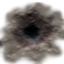
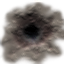
Weight redesign: perfect W20 strength at weight/200, weight-based offset spread, new weight words; grenade weight 130; projectiles are never refunded

Changed region(s): [[0.0, 0.4375, 0.0938, 0.8438]]

diff --git a/src/main.js b/src/main.js
@@ -43,28 +43,25 @@ const INITIAL_SCROLL_Y = -(GAME_HEIGHT - 20);
 // and the roofline - never in the sky, never in the red-marked restricted area (+10px buffer
 // above it) from the user's reference image. Restricted zone's top edge was image-y=486;
 // converted via IMG_GROUND_Y - imageY, plus the 10px buffer, that's a minimum stick height of
-// 184. The roofline (IMG_GROUND_Y - IMG_ROOF_Y = 643) is the maximum. MIN/MAX_POWER_SPEED are
-// calibrated so a 0%/100% power throw's apex lands exactly on those two bounds -
-// vy0 = sqrt(2 * GRAVITY * height).
+// 184. The roofline (IMG_GROUND_Y - IMG_ROOF_Y = 643) is the maximum. The strength curve below is built on
+// these bounds (vy0 = sqrt(2 * GRAVITY * height)).
 const MIN_STICK_HEIGHT = IMG_GROUND_Y - 486 + 10; // 184
 // Apex of a full-strength throw of the reference projectile (weight 100, the snowball) with no buffs:
 // the middle of the window row above the goal windows (image y 173-216 -> height 660 - 194.5).
 // Buffs/lighter projectiles can still push a throw higher - past the roof edge it falls back behind
 // the building, past the top of the texture it escapes (see updateFlight).
 const MAX_APEX_HEIGHT = IMG_GROUND_Y - (173 + 216) / 2; // 465.5
-// A projectile of this weight flies exactly as the constants above say; heavier flies lower, lighter higher
-// (see launchBall). The number is per projectile in economy.json ("weight") and never shown to the player.
+// The snowball's weight - the reference all other weights are measured against (economy.json "weight", never
+// shown to the player as a number). See the "weight" section below for what a weight does.
 const REFERENCE_WEIGHT = 100;
 // Where the wall ends and the sky starts: background.png rows 0-14 are sky, row 15 is the dark roof
 // edge. Nothing can stick above this line - a ball whose apex is higher falls back down and sinks
 // behind the roofline instead (see updateFlight), and marks are clipped at it (see addMark).
 const ROOF_EDGE_HEIGHT = IMG_GROUND_Y - 15; // 645
-const MIN_POWER_SPEED = Math.sqrt(2 * GRAVITY * MIN_STICK_HEIGHT); // ~575.6
-const MAX_POWER_SPEED = Math.sqrt(2 * GRAVITY * MAX_APEX_HEIGHT); // ~1200
 
 // Marker speed (full back-and-forth sweeps per second) - the numbers live in economy.json under "aim".
 // ONE fixed speed for both sliders - nothing (streak, buffs, projectiles) changes it.
-const AIM_DEFAULTS = { markerHz: 0.85 };
+const AIM_DEFAULTS = { markerHz: 0.85, offsetZoneAtWeight100: 0.5 };
 
 const MARK_LIFETIME_MS = 10000; // marks start fading this long after they're placed
 const MARK_FADE_MS = 1500; // fade-out duration, then the mark is destroyed
@@ -106,7 +103,58 @@ const AIM_COLOR_ANGLE_CSS = "#6fb1ff";
 const AIM_COLOR_POWER_CSS = "#ff6f6f";
 const EVENT_COLOR_FACE = 0xffd52e; // the face-window event's dot on the aim bars
 const EVENT_DOT_RADIUS = 6; // px, drawn on the aim bars (smaller than the hit range, so a marker on the dot always hits)
-const AIM_TICK_STEP = 0.1; // graduation lines on both aim bars every 10% (offset: of the full swing, from the center out)
+
+// ---------------------------------------------------------------------------------------------------------
+// WEIGHT. One number per projectile (economy.json "projectiles.<id>.weight"; snowball = 100 is the reference).
+//
+// STRENGTH slider: `power` is where the marker is (0 = start .. 1 = tip). The apex the throw reaches is
+// apexForEffectivePower(power + weightShift(weight)), and the curve passes through the apex bounds
+// (0 -> MIN_STICK_HEIGHT, 1 -> MAX_APEX_HEIGHT) and through W20's MIDDLE at 0.5. The shift moves where the
+// middle of W20 sits on the slider: 0.5 for weight 100, the tip (1.0) for weight 200, the very start (0) for
+// weight 0 - i.e. the perfect W20 throw is at power = weight / 200. Heavier = a higher power is needed.
+//
+// OFFSET slider: the sideways drift is swing x MAX_SWING_SPEED x flight time, and a swing of +-W20_SWING_GUARANTEE
+// is the most that is still guaranteed to land inside W20's width. The offset bar spans +-offsetRange swing, so
+// the share of the bar that hits W20 is W20_SWING_GUARANTEE / offsetRange = the "zone": 0 for weight 0 (only the exact
+// middle), 1 for weight 200 (anywhere on the slider), and `offsetZoneAtWeight100` (economy.json aim, default 0.5)
+// for the snowball, straight lines in between.
+const APEX_MID = (W20.heightFrom + W20.heightTo) / 2; // the middle of W20 (365.5)
+const CURVE_C = 2 * (MAX_APEX_HEIGHT - MIN_STICK_HEIGHT) - 4 * (APEX_MID - MIN_STICK_HEIGHT);
+const CURVE_B = MAX_APEX_HEIGHT - MIN_STICK_HEIGHT - CURVE_C;
+const CURVE_SLOPE_TOP = CURVE_B + 2 * CURVE_C; // beyond effective power 1 the curve continues in a straight line
+
+function weightShift(weight) {
+  return (REFERENCE_WEIGHT - weight) / (2 * REFERENCE_WEIGHT); // (100 - w) / 200
+}
+
+// Effective power (0..1 = the snowball's slider) -> apex height. Never below the lowest allowed stick height.
+function apexForEffectivePower(pe) {
+  if (pe <= 0) return MIN_STICK_HEIGHT;
+  if (pe <= 1) return MIN_STICK_HEIGHT + CURVE_B * pe + CURVE_C * pe * pe;
+  return MAX_APEX_HEIGHT + CURVE_SLOPE_TOP * (pe - 1);
+}
+
+// The inverse (can return values below 0 for apexes under the minimum; those are unreachable).
+function effectivePowerForApex(apex) {
+  if (apex >= MAX_APEX_HEIGHT) return 1 + (apex - MAX_APEX_HEIGHT) / CURVE_SLOPE_TOP;
+  const d = apex - MIN_STICK_HEIGHT;
+  return (-CURVE_B + Math.sqrt(CURVE_B * CURVE_B + 4 * CURVE_C * d)) / (2 * CURVE_C);
+}
+
+// The share of the offset bar that is a guaranteed W20 hit (sideways) for a projectile of this weight.
+function offsetZone(weight, zoneAt100) {
+  const w = Math.min(Math.max(weight, 0), 2 * REFERENCE_WEIGHT);
+  return w <= REFERENCE_WEIGHT
+    ? (zoneAt100 * w) / REFERENCE_WEIGHT
+    : zoneAt100 + ((1 - zoneAt100) * (w - REFERENCE_WEIGHT)) / REFERENCE_WEIGHT;
+}
+
+// How far (in swing) the offset marker can drift from the middle - i.e. the bar spans +-this.
+function offsetRangeForWeight(weight, zoneAt100) {
+  return Math.min(10, W20_SWING_GUARANTEE / Math.max(0.015, offsetZone(weight, zoneAt100)));
+}
+
+const AIM_TICK_STEP = 0.1; // graduation lines on the STRENGTH bar every 10% of its power span
 
 const FACE_IMG_X = W20.xFrom - 1; // world x of the texture's left edge
 const FACE_IMG_TOP_HEIGHT = W20.heightTo + 1; // heightClimbed of the texture's top edge
@@ -267,7 +315,6 @@ class MainScene extends Phaser.Scene {
 
     this.bounce = null; // a projectile bouncing off the wall after impact (see startBounce)
     this.pendingProjectile = null; // equipped mid-flight, applied when the throw concludes
-    this.aimConsumed = null; // the projectile taken from the inventory by the current tap (see consumeProjectile)
     this.applyProjectile(Economy.getEquipped("projectile"));
     this.takeAimSnapshot();
     this.updateStreakHud();
@@ -312,14 +359,20 @@ class MainScene extends Phaser.Scene {
   // next tap, so a buff that runs out or is bought mid-aim, mid-flight or on the result screen can never
   // change the sliders (or the payout) of the throw in progress. The bars, their graduations and the event
   // dots are all drawn from this snapshot.
-  //  angleRange / powerRange: how much of the full swing / power span the slider covers, edge to edge
-  //    (1 = all of it; smaller = more precise - the graduations spread out like a magnified ruler)
+  //  angleRange: how far (in swing) the offset marker can drift, edge to edge of the bar - from the weight (see
+  //    "WEIGHT" above), narrowed by a precision buff; smaller = more precise, the graduations spread out.
+  //  powerRange: how much of the power span the strength slider covers (1 = all of it; strength-control buff).
   takeAimSnapshot() {
     const b = Buffs.modifiers();
     const cfg = { ...AIM_DEFAULTS, ...(this.eco.aim || {}) };
+    // The offset spread comes from the projectile's WEIGHT (heavier = a wider share of the bar is a hit), then a
+    // precision buff narrows it further. The graduation lines are every 10% of the SNOWBALL's spread, at fixed swing
+    // values, so they look stretched on lighter/heavier projectiles (a magnified ruler).
+    const weight = this.proj.weight === undefined ? REFERENCE_WEIGHT : this.proj.weight;
     this.aim = {
       markerHz: cfg.markerHz, // fixed: the streak no longer speeds it up
-      angleRange: this.proj.angleRange / b.precision,
+      angleRange: offsetRangeForWeight(weight, cfg.offsetZoneAtWeight100) / b.precision,
+      angleTickStep: 0.1 * offsetRangeForWeight(REFERENCE_WEIGHT, cfg.offsetZoneAtWeight100),
       powerRange: 1 / b.strengthControl,
       coinMultiplier: b.coinMultiplier,
       guideLines: b.guideLines > 0, // the green guarantee lines are only drawn while a buff (Skyr) gives them
@@ -331,9 +384,15 @@ class MainScene extends Phaser.Scene {
   // already in flight is left to finish (its coins count) and resets by itself like any other throw.
   onShopOpened() {
     if (this.state === STATE.AIM_ANGLE || this.state === STATE.AIM_POWER) {
-      this.refundProjectile(true); // no throw happened, so the projectile the tap used up comes back
+      // The projectile the tap used up is NOT given back - it was spent at the first tap, so abandoning a bad aim
+      // (opening a tab) can't be used to get it back.
       this.state = STATE.IDLE;
       this.showMessage("TAP to aim");
+      if (this.pendingProjectile) {
+        // That tap was the last of its kind: the snowball takes over now, since no throw will follow to apply it.
+        this.applyProjectile(this.pendingProjectile);
+        this.pendingProjectile = null;
+      }
     }
   }
 
@@ -341,30 +400,13 @@ class MainScene extends Phaser.Scene {
   // (this.proj is unchanged until the throw is over); if it was the LAST one, the snowball is equipped again -
   // saved right now, applied when the throw concludes (pendingProjectile), so the aim isn't disturbed.
   consumeProjectile() {
-    this.aimConsumed = null;
     if (this.proj.infinite) return;
     const id = this.projectileId;
     if (!Economy.useProjectile(id)) return;
-    const depleted = Economy.getProjectileCount(id) === 0;
-    this.aimConsumed = { id, depleted };
-    if (depleted) {
+    if (Economy.getProjectileCount(id) === 0) {
       Economy.setEquipped("projectile", "snowball");
       this.pendingProjectile = "snowball";
     }
-  }
-
-  // The aim was thrown away before the ball left (the shop was opened, or another projectile was equipped): give
-  // the used-up projectile back. `restoreEquipped`: also put it back as the equipped one if its use had auto-switched
-  // to the snowball (not when the player has just chosen something else on purpose). Nothing is raised on the red dot.
-  refundProjectile(restoreEquipped) {
-    const c = this.aimConsumed;
-    if (!c) return;
-    Economy.addProjectiles(c.id, 1, true);
-    if (c.depleted) {
-      this.pendingProjectile = null;
-      if (restoreEquipped) Economy.setEquipped("projectile", c.id);
-    }
-    this.aimConsumed = null;
   }
 
   // The always-visible STREAK: x box under the top-right buttons. The text shrinks a little if it would be
@@ -390,7 +432,6 @@ class MainScene extends Phaser.Scene {
       return;
     }
     this.pendingProjectile = null;
-    if (this.state === STATE.AIM_ANGLE || this.state === STATE.AIM_POWER) this.refundProjectile(false);
     this.applyProjectile(id);
     if (this.state === STATE.AIM_ANGLE || this.state === STATE.AIM_POWER) {
       this.state = STATE.IDLE;
@@ -541,18 +582,14 @@ class MainScene extends Phaser.Scene {
   launchBall() {
     this.state = STATE.FLIGHT;
     this.flightTime = 0;
-    this.aimConsumed = null; // the throw is happening: the projectile is really spent
 
     const swing = (this.angleValue - 0.5) * 2; // -1..1
     this.ballVX = swing * MAX_SWING_SPEED;
-    // Same throw strength, different weight: the apex scales with REFERENCE_WEIGHT / weight (weight 80 flies
-    // 25% higher than the snowball, weight 125 would fly 20% lower). Never below the lowest allowed stick
-    // height, so a heavy projectile can't end up in the restricted ground zone.
-    const apexScale = REFERENCE_WEIGHT / (this.proj.weight || REFERENCE_WEIGHT);
-    this.ballVY0 = Math.max(
-      MIN_POWER_SPEED,
-      (MIN_POWER_SPEED + this.powerValue * (MAX_POWER_SPEED - MIN_POWER_SPEED)) * Math.sqrt(apexScale)
-    );
+    // The strength marker's position (0..1) plus the weight shift is the effective power on the snowball's curve
+    // (see "WEIGHT" above); the apex is never below the lowest allowed stick height.
+    const weight = this.proj.weight === undefined ? REFERENCE_WEIGHT : this.proj.weight;
+    const apex = apexForEffectivePower(this.powerValue + weightShift(weight));
+    this.ballVY0 = Math.sqrt(2 * GRAVITY * apex);
     this.ballStartX = ORIGIN_X;
     this.apexTime = this.ballVY0 / GRAVITY; // the snowball sticks to the wall here - see updateFlight
     // An apex above the roof edge would be a stick in the sky: that ball doesn't stick, it falls back.
@@ -942,11 +979,11 @@ class MainScene extends Phaser.Scene {
     };
   }
 
-  // The power-bar value (0..1) whose throw peaks at `apex` (a world height) with the equipped projectile.
-  // Inverse of the launch speed in launchBall(): apex = ((MIN + power x (MAX - MIN)) x sqrt(100/weight))^2 / 2g.
+  // The strength-bar value whose throw peaks at `apex` (a world height) with the equipped projectile - the inverse
+  // of launchBall(). May fall outside 0..1 (then that apex can't be reached with the bar).
   powerForApex(apex) {
-    const apexScale = REFERENCE_WEIGHT / (this.proj.weight || REFERENCE_WEIGHT);
-    return (Math.sqrt((2 * GRAVITY * apex) / apexScale) - MIN_POWER_SPEED) / (MAX_POWER_SPEED - MIN_POWER_SPEED);
+    const weight = this.proj.weight === undefined ? REFERENCE_WEIGHT : this.proj.weight;
+    return effectivePowerForApex(apex) - weightShift(weight);
   }
 
   // `hitWidthPx` = how wide (on the bar) the range that really hits is. The dot never sticks out of it - it is
@@ -1009,9 +1046,10 @@ class MainScene extends Phaser.Scene {
       // Graduations: skip the bar's own edge and everything between the two guarantee lines.
       // Without the guide-lines buff the ticks are drawn everywhere - a gap in them would give the lines away.
       const guide = this.aim.guideLines;
-      for (let k = 1; k * AIM_TICK_STEP < range - 1e-9; k++) {
-        const swing = k * AIM_TICK_STEP;
-        if (!guide || swing > W20_SWING_GUARANTEE) lineAt(swing, 0x202020, 0.85, 1, 3);
+      const step = this.aim.angleTickStep;
+      for (let k = 1; k * step < range - 1e-9; k++) {
+        const swing = k * step;
+        if (!guide || swing > W20_SWING_GUARANTEE + 1e-6) lineAt(swing, 0x202020, 0.85, 1, 3);
       }
       // The two lines that guarantee a hit on W20 (sideways) - nothing else is drawn between them. Buff only.
       if (guide) lineAt(W20_SWING_GUARANTEE, 0x5cff5c, 1, 2, 5);
@@ -1059,10 +1097,13 @@ class MainScene extends Phaser.Scene {
 
       const target = this.activeEventTarget(swingNow);
       if (target && target.powerFrom !== null) {
-        const power = (target.powerFrom + target.powerTo) / 2;
-        if (power > pLo && power < pLo + pRange) {
-          const hitWidthPx = ((target.powerTo - target.powerFrom) / pRange) * barW;
-          this.drawEventDot(g, barX + barPos(power) * barW, barY + barH / 2, target.color, hitWidthPx);
+        // The hit band can stick out past the ends of the bar (a heavy projectile's band ends beyond the tip):
+        // aim the dot at the part that is on the bar.
+        const from = Math.max(target.powerFrom, pLo);
+        const to = Math.min(target.powerTo, pLo + pRange);
+        if (from < to) {
+          const hitWidthPx = ((to - from) / pRange) * barW;
+          this.drawEventDot(g, barX + barPos((from + to) / 2) * barW, barY + barH / 2, target.color, hitWidthPx);
         }
       }
     }

diff --git a/src/collection.js b/src/collection.js
@@ -67,10 +67,11 @@ const Collection = (() => {
     return kind === "projectile" && Economy.getProjectileCount(it.id) > 0;
   }
 
-  // The word for a projectile's weight (never the number): the first weightLabels entry that is >= the weight.
+  // The word for a projectile's weight (never the number): the LAST weightLabels entry whose `from` is <= the weight.
   function weightWord(weight) {
     const labels = (eco && eco.weightLabels) || [];
-    const hit = labels.find((l) => weight <= l.upTo);
+    let hit = null;
+    for (const l of labels) if (weight >= l.from) hit = l;
     return hit ? hit.label : "?";
   }
 

diff --git a/index.html b/index.html
@@ -747,8 +747,8 @@
   <script src="src/economy.js?v=9"></script>
   <script src="src/buffs.js?v=3"></script>
   <script src="src/shop.js?v=14"></script>
-  <script src="src/collection.js?v=14"></script>
-  <script src="src/main.js?v=72"></script>
+  <script src="src/collection.js?v=15"></script>
+  <script src="src/main.js?v=73"></script>
   <script>
     // Phaser also listens on window for touches/clicks that start OUTSIDE the canvas, so taps on
     // the shop, the SHOP/BACK button and the mute button used to be fed to the game as throws.

diff --git a/docs/ECONOMY.md b/docs/ECONOMY.md
@@ -56,12 +56,30 @@ not the projectile - those only change how wide the sliders are).
 | field | meaning |
 |---|---|
 | `markerHz` | back-and-forth sweeps per second (`0.85` = one sweep in about 1.2s) |
+| `offsetZoneAtWeight100` | the share of the OFFSET slider that is a guaranteed W20 hit for a weight-100 projectile (the snowball). `0.5` = half the slider. See "weight" below |
 
 ## weightLabels (live)
 
 Projectile weights are never shown as numbers. `weightLabels` maps a weight to the word on the projectile card (`weight: light`):
-the first entry whose `upTo` is at least the weight is used. Now: up to 59 very light, 60-89 light, 90-110 moderate, 111-140 heavy,
-above that very heavy (snowball 100 = moderate, chestnut 75 = light). Edit the thresholds or words freely.
+the **last** entry whose `from` is at most the weight is used. Now: 0+ very light, 50+ light, 75+ moderate, 125+ heavy,
+150+ very heavy (snowball 100 = moderate, chestnut 75 = moderate, grenade 130 = heavy). Edit the thresholds or words freely.
+
+## weight (live)
+
+The **snowball is always weight 100** - the reference every other weight is measured against. A projectile's `weight` (0 to 200,
+shown to the player only as a word) sets two things:
+
+**Strength slider.** The perfect throw - the apex in the exact middle of W20 - is at strength position `weight / 200`:
+weight 100 = the centre of the slider, weight 200 = the very tip, weight 0 = the very beginning (50 -> 25%, 130 -> 65%, ...).
+Heavier projectiles need more strength. Below/above the perfect position the apex falls/rises along the snowball's curve
+(start of the slider = the lowest allowed height 184, centre = W20's middle 365.5, tip = the middle of the window row above, 465.5;
+beyond the tip, for light projectiles, the curve continues upward in a straight line).
+
+**Offset slider.** The share of the slider that lands inside W20 sideways is `weight / 200` on a straight line: weight 0 = only the exact
+middle (a floor of 1.5% is used so the slider still works), weight 200 = anywhere on the slider, and the snowball (100) is
+`aim.offsetZoneAtWeight100` (0.5 = half). Heavier projectiles are therefore easier to throw in a straight line.
+Precision buffs narrow the spread further. **Note:** with 0.5 the snowball's offset slider only spans +-0.31 swing, which is too short to
+reach W21 (it needs about +-0.37) - only projectiles lighter than ~68 can reach it. Lower `offsetZoneAtWeight100` to widen the snowball's spread.
 
 ## projectiles (live)
 
@@ -71,14 +89,13 @@ is in `PROJECTILE_VISUALS` at the top of `src/main.js`.
 
 | field | meaning |
 |---|---|
-| `infinite` | `true` = never runs out (the snowball). Every other projectile is a **consumable**: one is used up the moment the player taps "TAP to aim"; when the last one is gone the snowball is equipped again and the kind leaves the PROJECTILES list |
+| `infinite` | `true` = never runs out (the snowball). Every other projectile is a **consumable**: one is used up the moment the player taps "TAP to aim" (and is NOT given back if the aim is abandoned - opening a tab, equipping something else); when the last one is gone the snowball is equipped again and the kind leaves the PROJECTILES list |
 | `rewards` | the base coins for a hit on `W20` / `W21` with this projectile (the face bonus is added on top) |
-| `weight` | **not shown to the player.** Heavier projectiles fly lower with the same throw strength: the apex is multiplied by `100 / weight` (snowball = 100 is the reference; chestnut 80 flies 25% higher). A very heavy projectile is clamped so it never ends up below the lowest allowed stick height |
-| `angleRange` | how far the throw can drift sideways. `1` = the full swing; `0.8` = only 80% as far. The marker's speed is fixed for everything (projectiles and buffs only change the *spread*). The offset bar always keeps its full width and shows the projectile's range edge to edge, so its graduation lines (every 10% of the full swing) look stretched on a smaller range. Two green lines mark where a W20 hit is guaranteed sideways |
+| `weight` | 0-200, **not shown as a number** (see "weight" above; the snowball is always 100): the strength position of the perfect W20 throw is `weight / 200`, and the share of the offset slider that hits W20 also grows with it |
 | `leavesMark` | `false` = no snow mark; the projectile bounces off the wall instead (and plays its impact sound) |
 | `spins` | the projectile rotates in flight |
 
-A full-strength throw of the snowball (weight 100, no buffs) peaks at the middle of the window row above the goal windows (height 465.5). Chestnut right now: rewards 8 / 5, `weight 75`, `angleRange 0.8`, no mark, spins, consumable (placeholder numbers, to be tuned).
+A full-strength throw of the snowball (weight 100, no buffs) peaks at the middle of the window row above the goal windows (height 465.5); its centred throw hits the middle of W20. Chestnut right now: rewards 8 / 5, `weight 75`, `angleRange 0.8`, no mark, spins, consumable (placeholder numbers, to be tuned).
 
 ## shop
 

diff --git a/docs/NOTES.md b/docs/NOTES.md
@@ -660,3 +660,13 @@ not actual play.
 - **Bug found while testing**: the "guaranteeCheapItem" safety net swapped an expensive pick (min price 114 > 48) for a cheap item whenever nothing cheap was on sale yet, so the grenade could never be the first slot - against the equal-chance rule. It is now `enabled: false` in `economy.json` (still there as a setting). Equal chances confirmed: first slot skyr 33.2% / grenade 33.5% / chestnut 33.3%, ~2 slots of each per shop.
 - **Physics consequence of the weight**: apex scales by 100/120, so a full-strength grenade peaks at ~388 - just above the top of W20 (387). W20 needs power 0.843-0.997 (hit at ~365 with power 0.92); the window row above the goal windows is out of reach for it.
 - **Verified** (one atomic run, clean save): equip -> idle sprite `char_idle_grenade`; tap -> count -1 and `char_aiming_grenade`; in flight `grenade_flying` (no rotation) with the plain throwing sprite; W20 hit +199 and W21 hit +199 (real launches at the computed powers/offsets); sounds `grenade_launch@0.6` then `grenade_impact@0.5` (no whoosh); mark `grenade_impact` 40x40 (screenshot: scorch on W20 and in the rear-view window); the last grenade still pays 199 as a grenade, then the snowball is equipped and Grenade leaves the list. List order by W20 value: Grenade (199), Chestnut (8), Snowball (5), with "weight: heavy / hit value: 199". `main.js?v=72`, `collection.js?v=14`.
+
+## New weight mechanics, grenade weight 130, no refunds (2026-09-19)
+
+- **Grenade weight 130** (heavy).
+- **Weight redefined.** Snowball is always 100 (the reference). The strength slider's position of a perfect W20 throw (apex = the middle of W20, 365.5) is **weight / 200**: 100 = centre, 200 = the very tip, 0 = the very beginning. Implementation: the marker position `power` plus `weightShift = (100 - weight) / 200` is an "effective power" on the snowball's curve, `apexForEffectivePower` - a parabola through (0 -> 184, the lowest allowed apex), (0.5 -> 365.5, W20's middle) and (1 -> 465.5, the old full-strength apex), continued in a straight line above 1 for light projectiles and clamped at 184 below 0. This replaces the old launch-speed scaling by sqrt(100/weight) (`MIN/MAX_POWER_SPEED` are gone) - and it moves the snowball's own W20 sweet spot from ~0.62-0.76 to 0.43-0.58 of the slider. `powerForApex` (green lines, event dots) is the exact inverse (`effectivePowerForApex` - weightShift). Verified with real launches: at power = w/200 the apex is 365.5 for w = 0, 50, 75, 100, 130, 150, 200; snowball p0/p0.5/p1 = 184/365.5/465.5; real hits: snowball at 0.5 +5, chestnut at 0.375 +8, grenade at 0.65 +199, a weak snowball throw misses.
+- **Offset spread from weight**: the share of the offset slider that lands in W20 sideways (the "zone") is a straight line through (0 -> 0, 100 -> `aim.offsetZoneAtWeight100`, 200 -> 1); the bar spans `W20_SWING_GUARANTEE / zone` swing (floor 1.5% zone, cap 10). **I chose `offsetZoneAtWeight100 = 0.5` (the literal linear reading of "0 exact middle, 200 anywhere")**, which makes the snowball's offset slider span only +-0.3055 swing. Measured over real launches (share of the bar that hits W20 at all heights of its band): w0 1.5%, w50 25.1%, w75 37.5%, w100 50%, w130 65%, w150 75%, w200 100%. **Consequence: W21 needs about +-0.37 swing, so the snowball, chestnut and grenade can no longer reach W21** (only weight <~ 68). `angleRange` is removed from the projectiles in economy.json (derived from weight now); a precision buff still divides it. Graduation lines on the offset bar are every 10% of the SNOWBALL's spread (0.03055 swing, 9 per side for the snowball, 7 for the grenade), at fixed swing values so they stretch on other weights.
+- **Weight words** are `from` thresholds now: 0+ very light, 50+ light, 75+ moderate, 125+ heavy, 150+ very heavy (verified at every boundary). So the chestnut (75) reads **moderate**, the grenade (130) heavy, the snowball moderate.
+- **The strength dot** now aims at the part of the hit band that is on the bar (a heavy projectile's band can end beyond the tip).
+- **Glitch fixed - no more refund.** Removed `refundProjectile` and `aimConsumed`: a consumable is spent at the first tap of "TAP to aim" and stays spent whatever happens (opening the shop, equipping another projectile mid-aim, closing the app). Verified: 5 chestnuts -> tap -> 4 -> open shop -> still 4 (aim reset to "TAP to aim"); tap, open PROJECTILES/BUFFS lists -> nothing changes (the aim keeps running behind them); equip the snowball mid-aim -> the chestnut stays consumed. If that tap was the LAST of its kind and the aim is abandoned via the shop, the snowball is now applied right away (`onShopOpened`), otherwise the next tap would have thrown a free chestnut - verified the next tap uses the snowball with 0 chestnuts. An abandoned aim still doesn't count as a miss (no streak reset, no coins) - only the projectile is lost.
+- `main.js?v=73`, `collection.js?v=15`.
